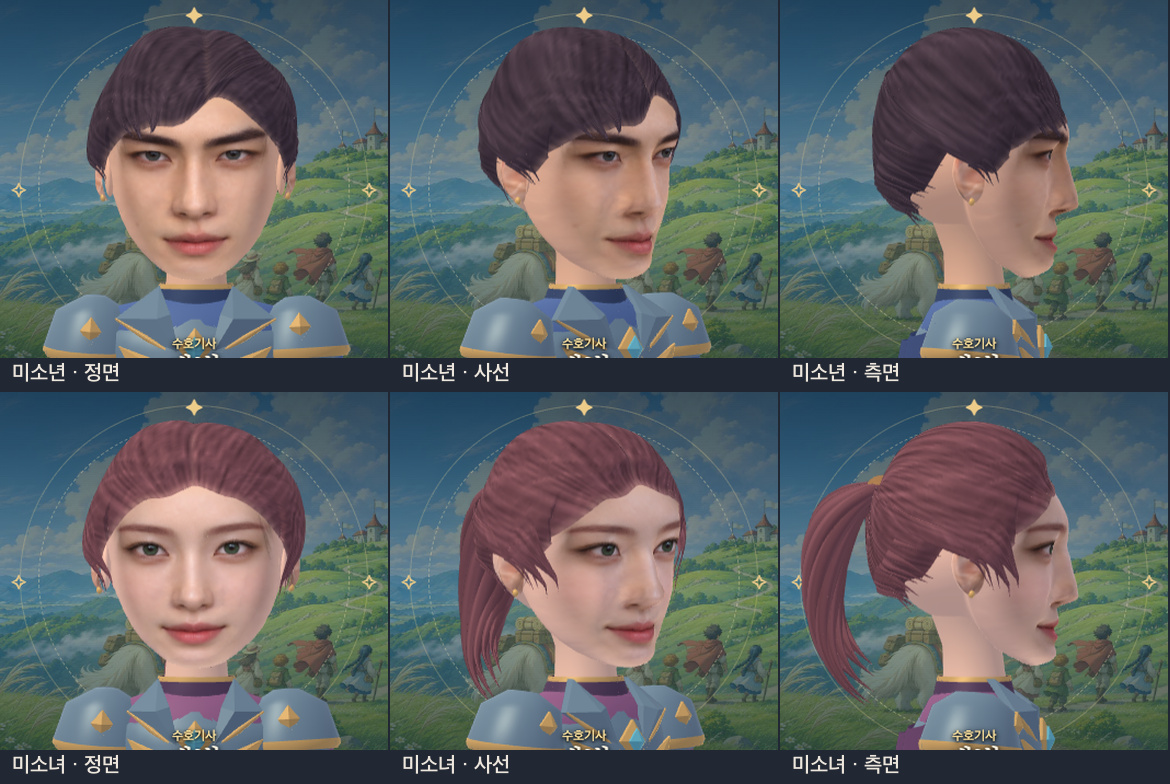
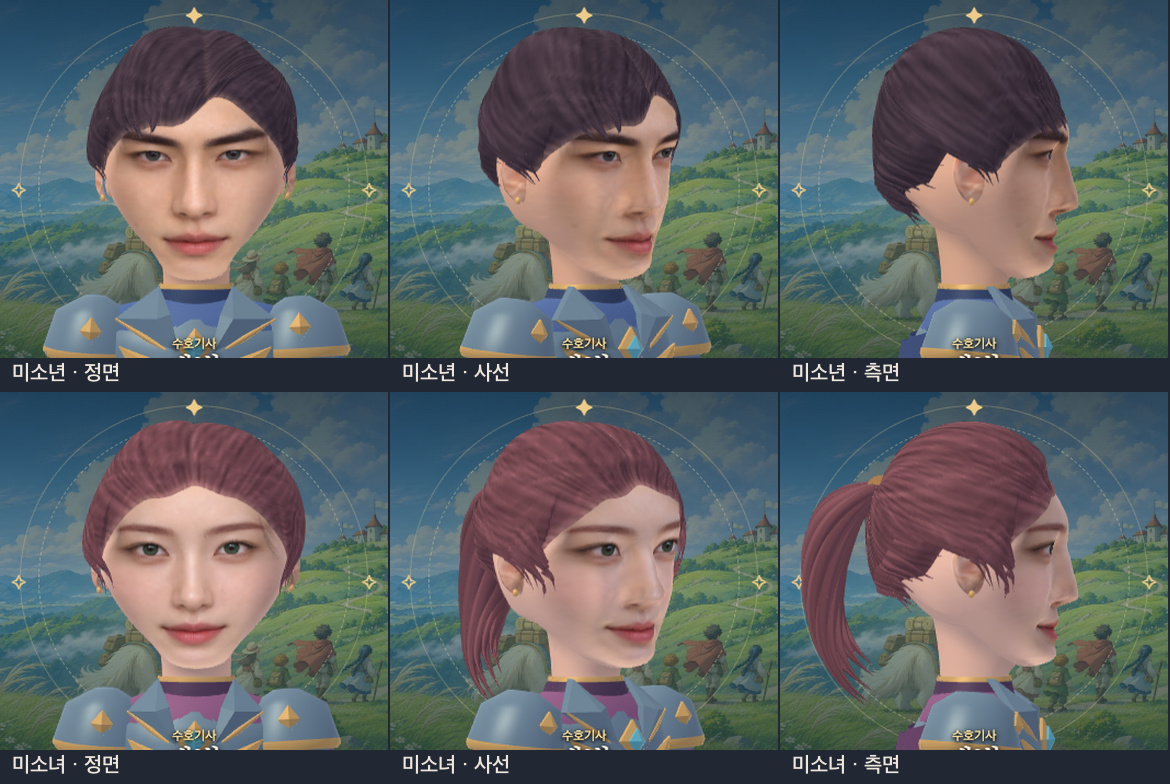
귀 앞과 턱밑을 목에 이어 조형하고 헤어 운영 자산을 등록한다

diff --git a/assets/avatar/art/face.js b/assets/avatar/art/face.js
@@ -56,8 +56,12 @@ function closeSkull(points, triangles) {
       const theta = Math.atan2((y + 0.046) / 0.405, x / 0.37);
       const sn = Math.sin(theta),
         cs = Math.cos(theta);
-      const mx = 0.401 * cs * (1 - 0.19 * Math.max(0, -sn) ** 2);
-      const my = 0.084 + 0.422 * sn + 0.075 * Math.max(-sn, 0) ** 2;
+      const ovalX = 0.401 * cs * (1 - 0.19 * Math.max(0, -sn) ** 2);
+      const ovalY = 0.084 + 0.422 * sn + 0.075 * Math.max(-sn, 0) ** 2;
+      // 광대 아래의 단면은 실제 턱 윤곽의 높이를 따라 뒤로 돌고, 턱끝에서 목으로 완만하게 오른다.
+      const lower = smooth((0.14 - y) / 0.27);
+      const mx = blend(ovalX, Math.sign(x) * Math.min(Math.abs(ovalX), Math.abs(x) + 0.012), 0.68 * lower);
+      const my = blend(ovalY, y + 0.087 * smooth((-y - 0.21) / 0.27), 0.45 * lower);
       const mz = -0.048;
       const mid = 10;
       let point;
@@ -76,9 +80,11 @@ function closeSkull(points, triangles) {
             t ** 3 * end[c]
           );
         });
+        point[1] -= 0.027 * Math.sin(t * Math.PI) ** 2 * Math.max(-sn, 0) ** 4;
       } else {
         const t = (((row - mid) / (belts - mid)) * Math.PI) / 2;
-        point = [mx * Math.cos(t), 0.094 + (my - 0.094) * Math.cos(t), mz - 0.337 * Math.sin(t)];
+        const nape = 0.052 * Math.sin(2 * t) ** 1.3 * Math.max(-sn, 0) ** 3;
+        point = [mx * Math.cos(t), 0.094 + (my - 0.094) * Math.cos(t) + nape, mz - 0.337 * Math.sin(t)];
       }
       points.push(point);
       const j = (i + 1) % rim;
@@ -147,6 +153,16 @@ export function sculptFace(m, appearance, palette) {
   }
   const faceCount = points.length;
   closeSkull(points, indices);
+  // 귀 앞에서 턱 뒤까지는 앞얼굴과 뒤통수 양쪽이 같은 하악 단면을 지난다.
+  for (const point of points) {
+    const [x, y, z] = point;
+    const lateral = smooth((Math.abs(x) - 0.1) / 0.145) * smooth((0.18 - y) / 0.13);
+    const side = lateral * smooth((0.28 - z) / 0.14) * smooth((z + 0.27) / 0.15);
+    if (side === 0) continue;
+    const width = (0.396 - 0.39 * (Math.max(-y, 0) / 0.49) ** 1.8) * (1 + 0.16 * jawEdit * smooth((-y - 0.1) / 0.29));
+    const arc = Math.sqrt(Math.max(0, 1 - ((z - 0.01) / 0.397) ** 2));
+    point[0] = blend(x, Math.sign(x) * Math.max(0, width) * arc, 0.94 * side);
+  }
   const normals = normalsOf(points, indices);
   const start = m.vertices.length / 11;
   const base = maiden ? [224, 192, 177] : [205, 170, 151];
@@ -154,9 +170,17 @@ export function sculptFace(m, appearance, palette) {
     const n = i * 3,
       k = i * 6;
     const length = Math.hypot(normals[n], normals[n + 1], normals[n + 2]) || 1;
-    const nx = normals[n] / length,
+    const [x, y, z] = points[i];
+    let nx = normals[n] / length,
       ny = normals[n + 1] / length,
       nz = normals[n + 2] / length;
+    // 머리와 따로 움직이는 목 관절의 접촉 둘레에서 두 표면이 같은 방향으로 빛을 받게 한다.
+    const radius = Math.hypot(x, z + 0.022);
+    const neck = smooth((0.248 - radius) / 0.107) * smooth((-y - 0.17) / 0.16);
+    if (neck > 0) {
+      const side = unit([x, -0.038, z + 0.022]);
+      [nx, ny, nz] = unit([blend(nx, side[0], neck), blend(ny, side[1], neck), blend(nz, side[2], neck)]);
+    }
     let tint = palette.skin;
     if (i < faceCount) {
       const iris = photoColors[k + 3] / 255;
@@ -171,17 +195,22 @@ export function sculptFace(m, appearance, palette) {
         0.65 + 0.073 * fill + 0.11 * sky + 0.3 * diffuse,
         0.72 + 0.068 * fill + 0.1 * sky + 0.23 * diffuse,
       ];
-      const balance = 0.72 * smooth((points[i][2] - 0.13) / 0.17);
+      const balance = 0.88 * smooth((z - 0.12) / 0.18);
+      const socket = falloff((Math.abs(x) - 0.166) / 0.11, (y - 0.083) / 0.06);
+      const ala = falloff((Math.abs(x) - 0.063) / 0.044, (y + 0.159) / 0.04);
+      const skinFill = (0.22 * socket + 0.19 * ala) * (1 - eyeOpening) * (1 - brow);
       tint = base.map((neutral, c) => {
         const photo = photoColors[k + c];
-        const skin = Math.min(1, (photo * palette.skin[c]) / neutral);
+        const original = photo / neutral;
+        const skin = Math.min(1, (original + skinFill * Math.max(0, 1 - original)) * palette.skin[c]);
         const strands = (photo * (0.48 + 1.75 * palette.hair[c])) / 255;
         const unpainted = blend(blend(skin, photo / 235, eyeOpening), strands, brow * 0.67);
         const eye = Math.min(1, palette.eye[c] * (0.14 + photo / 121));
         return blend(unpainted, eye, iris) / blend(1, light[c], balance);
       });
     }
-    m.vertices.push(...points[i], nx, ny, nz, ...tint, 0.075, m.bone);
+    if (neck > 0) tint = tint.map((c) => c * (1 - 0.077 * neck));
+    m.vertices.push(x, y, z, nx, ny, nz, ...tint, 0.075, m.bone);
   }
   for (const i of indices) m.indices.push(start + i);
 }

diff --git a/assets/avatar/art/portrait.js b/assets/avatar/art/portrait.js
@@ -1,12 +1,42 @@
-import { BONE } from './sculpt.js';
+import { BONE, TAU } from './sculpt.js';
 import { sculptFace, sculptEars } from './face.js';
 import { sculptHair } from './hair.js';
+
+// 턱밑에서 목 앞쪽으로 돌아가는 살을 덧대고, 아래 단면은 원래 목 안으로 수렴시킨다.
+function sculptThroat(m, skin) {
+  m.surface(
+    64,
+    32,
+    (u, v) => {
+      const angle = u * TAU,
+        front = Math.cos(angle);
+      const y = -0.524 + 0.415 * v;
+      const lift = Math.max(0, Math.min(1, (y + 0.501) / 0.132));
+      const throat = 0.085 * lift * lift * (3 - 2 * lift);
+      return [
+        Math.sin(angle) * (0.143 + 0.057 * v * v),
+        y,
+        -0.008 * v + front * (0.141 + 0.059 * v * v) + Math.max(0, front) ** 2 * throat,
+      ];
+    },
+    ([, y], u, v) => {
+      // 턱이 가리는 목 위쪽은 반사광이 적다. 목깃 쪽으로 갈수록 본래 피부색으로 돌아간다.
+      const front = Math.cos(u * TAU);
+      const jawY = -0.309 - 0.099 * front - 0.026 * Math.max(0, front) ** 2;
+      const t = Math.max(0, Math.min(1, (y - jawY + 0.113) / 0.116));
+      const shade = t * t * (3 - 2 * t) * (1 - 0.68 * Math.max(0, front));
+      return skin.map((c, k) => c * (0.927 + 0.034 * v) * (1 - shade * [0.183, 0.158, 0.112][k]));
+    },
+    0.09,
+  );
+}
 
 export function sculptHead(m, a, p, headY) {
   m.bone = BONE.head;
   const start = m.vertices.length;
   sculptFace(m, a, p);
   sculptEars(m, a, p);
+  sculptThroat(m, p.skin);
   sculptHair(m, a, p);
   for (let i = start; i < m.vertices.length; i += 11) {
     let y = m.vertices[i + 1];

diff --git a/reports/2026-11-19-아바타-얼굴/검증.md b/reports/2026-11-19-아바타-얼굴/검증.md
@@ -4,18 +4,21 @@
 
 | 머리 로컬 좌표 | 미소년 | 미소녀 |
 | --- | --- | --- |
-| 좌우 X | −0.401 ~ +0.401 | −0.401 ~ +0.401 |
-| 아래·위 Y | −0.468 ~ +0.506 | −0.449 ~ +0.506 |
+| 좌우 X | −0.395 ~ +0.394 | −0.394 ~ +0.395 |
+| 아래·위 Y | −0.472 ~ +0.506 | −0.453 ~ +0.506 |
 | 뒤·앞 Z | −0.385 ~ +0.455 | −0.385 ~ +0.437 |
 
 범위는 귀와 머리카락을 제외한 기본 머리의 실측값이다. 귀 중심은 X ±0.40 부근이며, 정면은 +Z, 정수리는 +Y다. 머리 관절은 기존의 `BONE.head`를 쓴다. `sculptHair(m, appearance, palette)`에는 얼굴과 같은 로컬 좌표와 피부색을 포함한 전체 팔레트가 전달되며, 모자에 맞춘 상단 압축과 머리 높이 이동은 조형 후 공통 적용된다.
+
+귀 앞에서 턱 뒤까지 앞얼굴과 뒤통수에 같은 하악 단면을 적용했다. 턱밑에서 목깃까지 목 표면을 이어 그렸고, 목 접촉 부위의 법선과 피부색을 섞었다. 눈두덩과 콧방울은 원화에 이미 있는 그림자의 중복을 줄였다.
 
 두 기본형을 공방의 얼굴 확대, 좌우 회전 버튼으로 촬영했다. 같은 외형 비교에서는 턱선·코·눈매·머리·피부색·눈동자색을 그대로 두고 얼굴 원형 버튼만 바꿨다.
 
 - [공방의 프리셋 정면·사선·측면](공방-프리셋-세-각도.jpg)
 - [같은 외형에서 얼굴 원형만 바꾼 정면](같은-외형에서-원형-비교.jpg)
 - [기존 조형과 교체 후 정면 비교](교체-전후-정면.jpg)
+- [측면의 귀 앞·턱밑·목 보정 전후](측면-보정-전후.jpg)
 
 왼쪽·오른쪽 원화와 Google MediaPipe 얼굴 측정 가중치의 SHA-256을 제작 도구가 확인한다. 측정 가중치는 제작 때만 필요하다. 원화와 재생성 도구는 `scripts/avatar-face/`에 있다. 실행 시에는 같은 출처의 정적 자바스크립트에 포함된 형상·색 데이터만 읽는다. 크롬과 모바일 웹킷, 그래픽 가속 손실 후 대체 렌더러, 네트워크를 끊은 소프트웨어 동기 촬영, 네 외형의 ZIP·투명 PNG, 데스크톱·모바일 회원 저장본의 재렌더를 검증했다.
 
-단위 테스트 221개, 보안 단위 테스트 40개, 독립 HTTP 검사 70개가 통과했다. 두 원형·네 직업·네 머리·조형 슬라이더 양 끝의 64개 조합도 16비트 정점 인덱스 범위에서 그려졌다.
+단위 테스트 221개, 사이트 정적 검사 3,390개, 보안 단위 테스트 40개, 독립 HTTP 검사 70개가 통과했다. 두 원형·네 직업·네 머리·조형 슬라이더 양 끝의 64개 조합도 최대 56,862개 정점으로 16비트 인덱스 범위에서 그려졌다.
